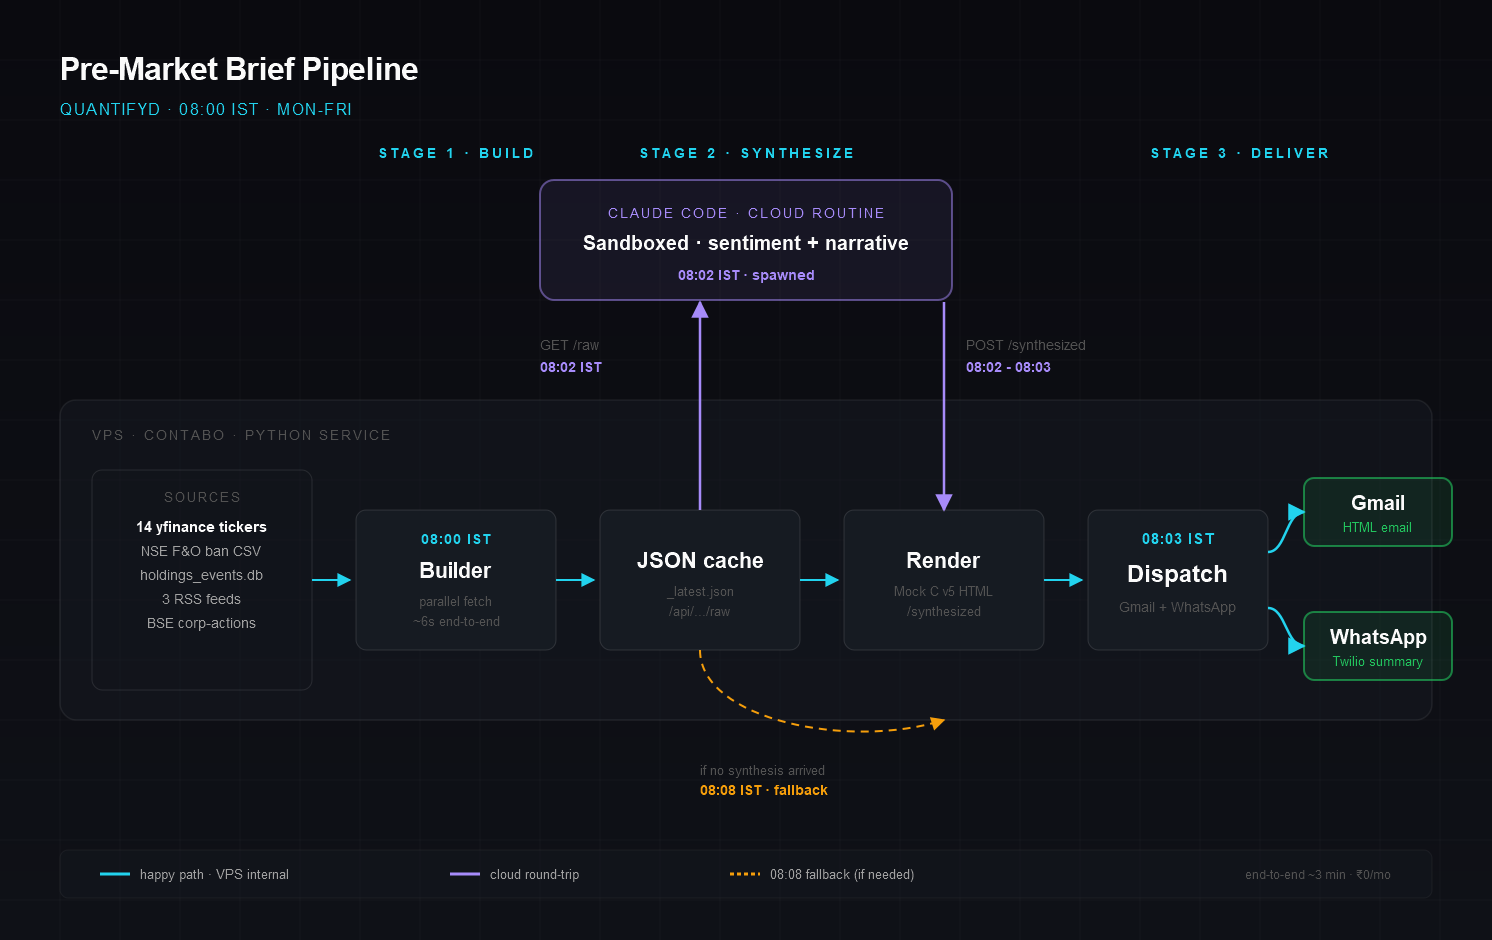
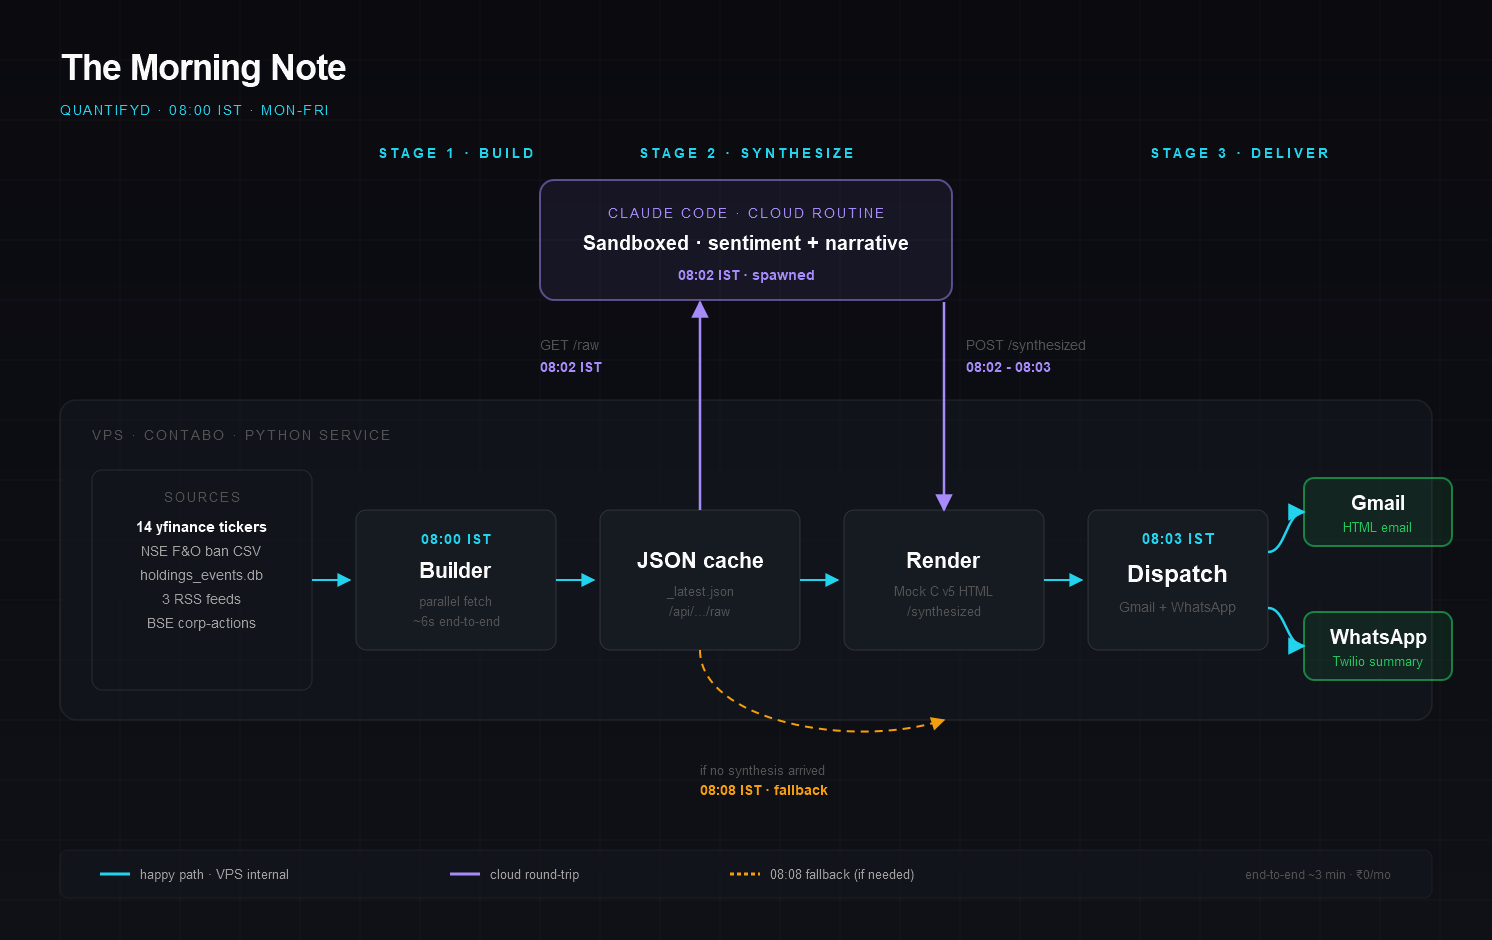
Rename: Pre-Market Brief Pipeline -> The Morning Note (portfolio surface)
Updated:
  - data/projects.json: name, tagline, shortDesc
  - js/project-loader.js: FULL_DESCRIPTIONS lead paragraph + PROJECT_DETAILS
    features re-tightened around the Morning Note framing
  - assets/projects/quantifyd-premarket-brief.png + .svg: title text
  - docs/projects.json regenerated by sync script

Card click now reads 'The Morning Note (Live)' with the new tagline.

Changed region(s): [[0.0308, 0.0617, 0.2775, 0.1234]]

diff --git a/js/project-loader.js b/js/project-loader.js
@@ -78,7 +78,7 @@
     klarity: 'Lightweight desktop task board with a 15-stage pipeline, ETag-based distributed sync, and multi-agent orchestration for AI-assisted developers. Built to bring clarity to complex workflows.',
     orbit: 'Mobile companion for Klarity \u2014 review, update, and triage tasks from your phone with zero-server architecture using GitHub as backend and SHA-based conflict resolution.',
     'portfolio-optimization': 'Automated portfolio construction and maintenance \u2014 covered calls, rebalancing, and risk analytics to outperform market indexes.',
-    'quantifyd-premarket-brief': 'Daily quant trading brief \u2014 three stages, ~3-minute loop. <ul style="margin:10px 0 0 0;padding-left:1.2em;line-height:1.8"><li><b>Stage 1 \u00b7 08:00 IST</b> \u2014 VPS builds the JSON (market data, holdings events, news).</li><li><b>Stage 2 \u00b7 08:02 IST</b> \u2014 Claude routine writes sentiment + narrative.</li><li><b>Stage 3 \u00b7 08:03 IST</b> \u2014 VPS dispatches to <b>Gmail</b> + <b>WhatsApp</b>.</li></ul>'
+    'quantifyd-premarket-brief': 'A daily intelligence brief in your inbox before the opening bell \u2014 three stages, ~3-minute loop. <ul style="margin:10px 0 0 0;padding-left:1.2em;line-height:1.8"><li><b>Stage 1 \u00b7 08:00 IST</b> \u2014 VPS builds the JSON (market data, holdings events, news).</li><li><b>Stage 2 \u00b7 08:02 IST</b> \u2014 Claude routine writes sentiment + narrative.</li><li><b>Stage 3 \u00b7 08:03 IST</b> \u2014 VPS dispatches to <b>Gmail</b> + <b>WhatsApp</b>.</li></ul>'
   };
 
   // Tech stack overrides (portfolio may show different tech than JSON)
@@ -153,11 +153,11 @@
   const PROJECT_DETAILS = {
     'quantifyd-premarket-brief': {
       features: [
-        'Two-stage pipeline: VPS (Contabo Linux box) builds raw data at 08:00 IST; Claude Code cloud routine narrates at 08:02; VPS dispatches the email by 08:03 — full loop closes in 3 minutes',
-        'Sandboxed cloud agent stays stateless: no SSH key, no SMTP credentials, no secrets — only reads via /api/premarket/brief/raw and writes synthesis to /synthesized',
-        '08:08 IST self-healing fallback fires from the VPS if the cloud routine never posts back, so the operator always gets a brief',
-        'Free data spine: yfinance (14 tickers), NSE archive CSVs, BSE corporate actions, RSS from Moneycontrol/Mint/Reuters India, plus the local holdings_events.db',
-        'Same JSON contract feeds both halves — the VPS never blocks on the cloud, the cloud is purely a synthesis layer'
+        'Lands in inbox + WhatsApp at 08:03 IST every weekday — three minutes from data fetch to delivery',
+        'Three stages, two halves: VPS builds the raw JSON at 08:00; Claude Code cloud routine narrates at 08:02; VPS dispatches via Gmail SMTP + Twilio WhatsApp at 08:03',
+        'Sandboxed cloud agent stays stateless — no SSH key, no SMTP credentials, no secrets. Only reads /api/premarket/brief/raw and writes synthesis to /synthesized',
+        '08:08 IST self-healing fallback on the VPS guarantees delivery — even if the cloud routine never posts back, the un-synthesized version goes out',
+        'Free data spine: yfinance (14 tickers), NSE archive CSVs, BSE corporate actions, RSS from Moneycontrol/Mint/Reuters India, plus the local holdings_events.db'
       ],
       archFlow: ['Sources\n(yfinance + RSS)', 'VPS Builder\n08:00 IST', 'Claude Cloud\n08:02 IST', 'VPS SMTP\n08:03 IST'],
       archHighlight: 2,
